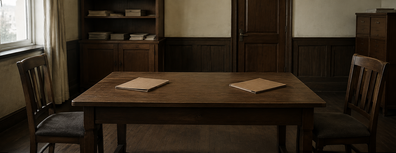
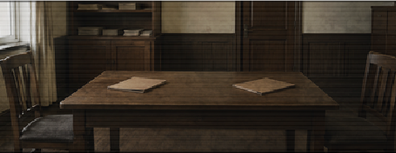
News pictures

diff --git a/tools/builders/build_adiscord_event_pictures.py b/tools/builders/build_adiscord_event_pictures.py
@@ -22,26 +22,35 @@ ART_ROOT = ROOT / "gfx/event_pictures"
 GFX = ROOT / "interface/ADISCORD_event_art.gfx"
 PREVIEW = ROOT / "gfx/interface/events/preview/ADISCORD_event_art_contact_sheet.png"
 SIZES = {"country": (507, 184), "news": (396, 153)}
-# The old explosion source includes a beveled perimeter; keep only the artwork.
-SOURCE_CROPS = {"vorkerland_explosion": (7, 7, 500, 177)}
-
-# scene: (source relative to gfx/event_pictures, required window formats).
-# New formats are explicit: a COUNTRY sprite must never be reused in NEWS.
+# Country and news formats can have independently authored sources.
 ART = {
     "parliament_chamber": ("source/parliament_chamber.png", ("country", "news")),
     "negotiation_table": ("source/negotiation_table.png", ("country", "news")),
     "military_headquarters": ("event_adiscord_ui_test.png", ("country",)),
     "nectar_of_the_gods": ("source/nectar_of_the_gods.png", ("country",)),
-    "city_in_civil_war": ("source/news/city_in_civil_war.png", ("news",)),
-    "vorkerland_explosion": ("event_vorkerland_explosion.png", ("country", "news")),
-    "vorkerland_northern_settlement": ("event_vorkerland_civilwar_is_over.png", ("news",)),
-    "army_formation": ("source/news/army_formation.dds", ("news",)),
-    "treaty_signing": ("source/news/treaty_signing.dds", ("news",)),
-    "peace_negotiations": ("source/news/peace_negotiations.dds", ("news",)),
+    "city_in_civil_war": ("source/news/urban_patrol.png", ("news",)),
+    "vorkerland_explosion": ("source/vorkerland_explosion_country.png", ("country", "news")),
+    "vorkerland_northern_settlement": ("source/news/northern_patrol.png", ("news",)),
+    "army_formation": ("source/news/military_formation.png", ("news",)),
+    "treaty_signing": ("source/news/constituent_assembly.png", ("news",)),
+    "peace_negotiations": ("source/news/peace_signing.png", ("news",)),
     "military_planning": ("source/news/military_planning.dds", ("country", "news")),
-    "urban_resistance": ("source/news/urban_resistance.dds", ("news",)),
-    "troops_marching": ("source/news/troops_marching.dds", ("news",)),
-    "armed_uprising": ("source/news/armed_uprising.dds", ("news",)),
+    "urban_resistance": ("source/news/resistance_fighters.png", ("news",)),
+    "armed_uprising": ("source/news/urban_combat.png", ("news",)),
+    "kefreyt_address": ("source/news/kefreyt_address.png", ("news",)),
+    "imperial_proclamation": ("source/news/imperial_proclamation.png", ("news",)),
+    "stelander_empire": ("source/news/stelander_empire.png", ("news",)),
+}
+
+# Preserve public sprite IDs while naming the textures after their visible scene.
+NEWS_SCENES = {
+    "city_in_civil_war": "urban_patrol",
+    "vorkerland_northern_settlement": "northern_patrol",
+    "army_formation": "military_formation",
+    "treaty_signing": "constituent_assembly",
+    "peace_negotiations": "peace_signing",
+    "urban_resistance": "resistance_fighters",
+    "armed_uprising": "urban_combat",
 }
 
 
@@ -51,17 +60,18 @@ def sprite_name(scene: str, kind: str) -> str:
 
 
 def texture_path(scene: str, kind: str) -> Path:
-    return ART_ROOT / "standard" / kind / f"{scene}.png"
+    filename = NEWS_SCENES.get(scene, scene) if kind == "news" else scene
+    return ART_ROOT / "standard" / kind / f"{filename}.png"
 
 
 def formatted_art(scene: str, kind: str) -> Image.Image:
     source, formats = ART[scene]
     if kind not in formats:
         raise ValueError(f"unsupported event artwork format: {scene}/{kind}")
+    if kind == "news":
+        source = "source/news/" + NEWS_SCENES.get(scene, scene) + ".png"
     with Image.open(ART_ROOT / source) as image:
         artwork = image.convert("RGB")
-        if scene in SOURCE_CROPS:
-            artwork = artwork.crop(SOURCE_CROPS[scene])
         # No stretching, added frames, tint, blur bars, or artificial sharpening.
         return ImageOps.fit(artwork, SIZES[kind],
                             method=Image.Resampling.LANCZOS)

diff --git a/tools/tests/test_adiscord_world_news.py b/tools/tests/test_adiscord_world_news.py
@@ -41,7 +41,7 @@ def named_block(text: str, name: str) -> str:
 
 
 def event_block(text: str, event_id: str) -> str:
-    for match in re.finditer(r"(?m)^\s*news_event\s*=\s*\{", text):
+    for match in re.finditer(r"(?m)^news_event\s*=\s*\{", text):
         start = match.end()
         depth = 1
         in_string = False
@@ -140,6 +140,37 @@ class WorldNewsContracts(unittest.TestCase):
     def test_world_news_localisation_uses_utf8_bom(self):
         self.assertTrue(self.ru_path.read_bytes().startswith(b"\xef\xbb\xbf"))
         self.assertTrue(self.en_path.read_bytes().startswith(b"\xef\xbb\xbf"))
+
+    def test_rin_and_frontier_news_are_localised_delayed_and_guarded(self):
+        rin = read("events/ADISCORD_rin_oath_crisis_events.txt")
+        effects = read("common/scripted_effects/ADISCORD_rin_oath_crisis_effects.txt")
+        frontier = read("events/ADISCORD_TFF_events.txt")
+        loc = read("localisation/russian/events_l_russian.yml") + read(
+            "localisation/russian/ADISCORD_TFF_l_russian.yml"
+        )
+        for event_id, source, flag in [
+            ("ADISCORD_rin_crisis.10", rin, "rin_active"),
+            ("ADISCORD_rin_crisis.11", rin, "rin_southern_victory"),
+            ("ADISCORD_rin_crisis.12", rin, "rin_northern_victory"),
+            ("ADISCORD_rin_crisis.13", rin, "rin_partition"),
+            ("ADISCORD_rin_crisis.14", rin, "rin_loyalty"),
+            ("ADISCORD_TFF.10", frontier, "frontier_command"),
+        ]:
+            event = event_block(source, event_id)
+            for token in ("major = yes", "fire_only_once = no", "is_triggered_only = yes"):
+                self.assertIn(token, event, event_id)
+            callers = source + effects
+            self.assertIn("id = " + event_id + " hours = 1", callers)
+            flag = "ADISCORD_news_" + flag + "_published"
+            self.assertIn("NOT = { has_global_flag = " + flag + " }", callers)
+            self.assertIn("set_global_flag = " + flag, callers)
+            for suffix in ("t", "d", "a"):
+                key = event_id + "." + suffix
+                values = re.findall(r'^ ' + re.escape(key) + r': "([^"\n]+)"$', loc, re.M)
+                self.assertEqual(len(values), 1, key)
+                text = values[0].replace(r"\n", "\n")
+                self.assertLessEqual(len(text), 3000)
+                self.assertLessEqual(len(text.encode("utf-8")), 5500)
 
     def test_world_news_debug_smoke_decisions_are_not_shipped(self):
         self.assertFalse(

diff --git a/tools/tests/test_adiscord_event_ui.py b/tools/tests/test_adiscord_event_ui.py
@@ -411,22 +411,29 @@ class EventWindowUiTests(unittest.TestCase):
                     expected = (507, 184) if kind == "country" else (396, 153)
                     sprite = _named_block(sprite_text, "spriteType", fields["picture"])
                     texture = re.search(r'texturefile\s*=\s*"([^"]+)"', sprite, re.I)[1]
+                    if kind == "news":
+                        self.assertEqual(Path(texture).parent.as_posix(),
+                                         "gfx/event_pictures/standard/news")
+                        self.assertRegex(Path(texture).name, r"^[a-z0-9]+(?:_[a-z0-9]+)*\.png$")
                     with Image.open(ROOT / texture) as artwork:
                         self.assertEqual(artwork.size, expected)
                         self.assertEqual(artwork.convert("RGBA").getchannel("A").getextrema(), (255, 255))
                     checked += 1
         self.assertGreater(checked, 100, "event audit unexpectedly skipped the main story files")
 
-    def test_explosion_art_excludes_legacy_frame(self):
+    def test_news_art_uses_preserved_authored_sources(self):
         from PIL import ImageOps
-        from tools.builders.build_adiscord_event_pictures import formatted_art
+        from tools.builders.build_adiscord_event_pictures import ART, NEWS_SCENES, formatted_art
 
-        with Image.open(ROOT / "gfx/event_pictures/event_vorkerland_explosion.png") as source:
-            unframed = source.convert("RGB").crop((7, 7, 500, 177))
-        for kind, size in (("country", (507, 184)), ("news", (396, 153))):
-            with self.subTest(kind=kind):
-                expected = ImageOps.fit(unframed, size, method=Image.Resampling.LANCZOS)
-                self.assertEqual(formatted_art("vorkerland_explosion", kind).tobytes(), expected.tobytes())
+        for scene, (_, formats) in ART.items():
+            if "news" not in formats:
+                continue
+            with self.subTest(scene=scene):
+                name = NEWS_SCENES.get(scene, scene)
+                with Image.open(ROOT / "gfx/event_pictures/source/news" / (name + ".png")) as source:
+                    expected = ImageOps.fit(source.convert("RGB"), (396, 153),
+                                            method=Image.Resampling.LANCZOS)
+                self.assertEqual(formatted_art(scene, "news").tobytes(), expected.tobytes())
 
     def test_event_artwork_builder_is_current_and_owned(self):
         from tools.builders.build_adiscord_event_pictures import expected_outputs

diff --git a/tools/validators/validate_adiscord_rin_oath_crisis.py b/tools/validators/validate_adiscord_rin_oath_crisis.py
@@ -93,8 +93,10 @@ def collect_issues() -> list[str]:
     if event_ids != [
         "ADISCORD_rin_crisis.1", "ADISCORD_rin_crisis.2",
         "ADISCORD_rin_crisis.3", "ADISCORD_rin_crisis.4",
+        "ADISCORD_rin_crisis.10", "ADISCORD_rin_crisis.11",
+        "ADISCORD_rin_crisis.12", "ADISCORD_rin_crisis.13", "ADISCORD_rin_crisis.14",
     ]:
-        issues.append(f"RIN event namespace must contain exactly .1-.4, found {event_ids}")
+        issues.append(f"RIN event namespace must contain exactly .1-.4 and news .10-.14, found {event_ids}")
     if events.count("add_namespace = ADISCORD_rin_crisis") != 1:
         issues.append("RIN event namespace declaration is missing or duplicated")
 
